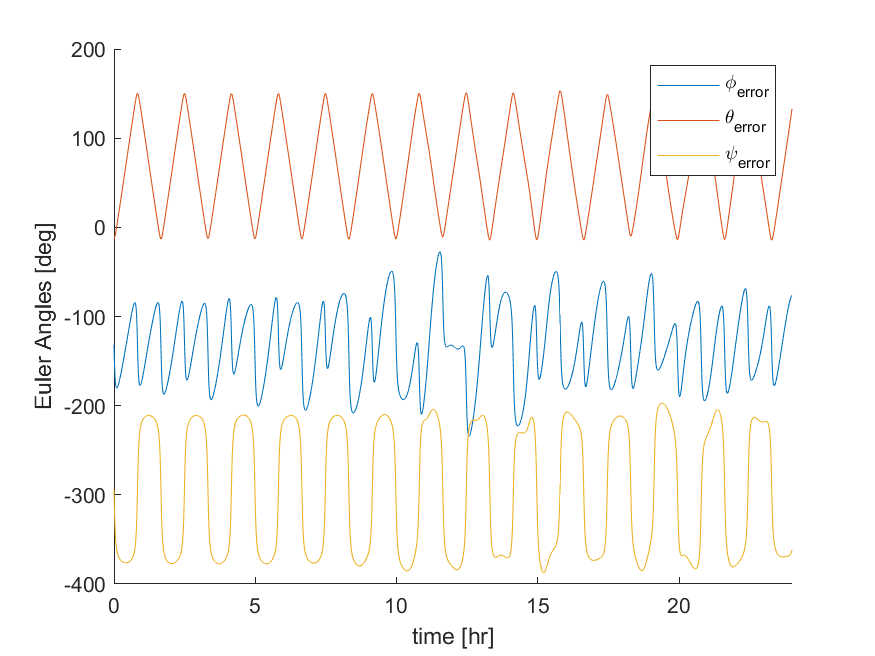
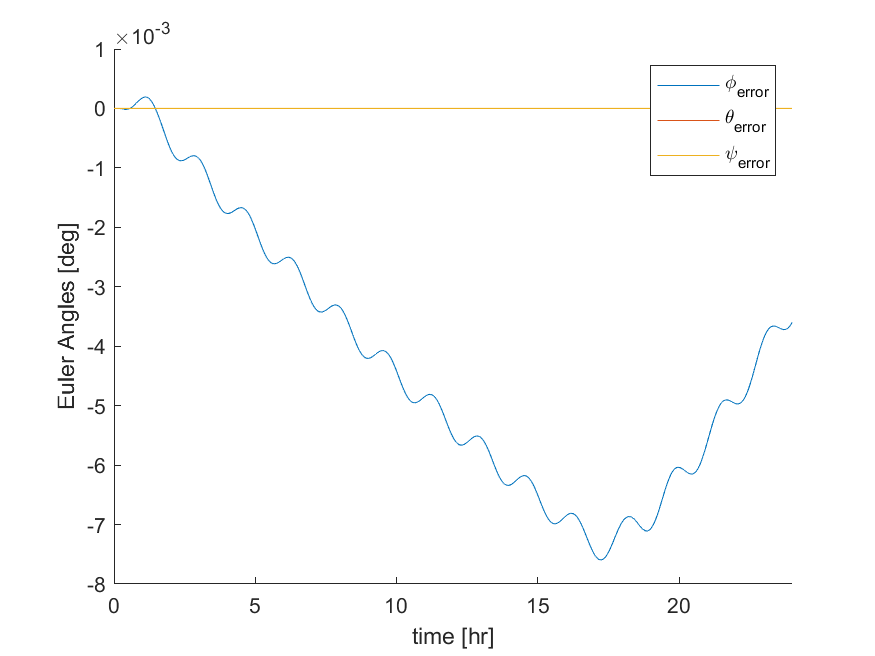
fixing the calculated error (for good) (hopefully)

diff --git a/src/ps6.m b/src/ps6.m
@@ -14,6 +14,7 @@ Iz = IPrincipal(3,3);
 
 %% Problem 2
 tFinal = 86400;
+% tFinal = 60;
 tStep = 1;
 tspan = 0:tStep:tFinal;
 
@@ -35,7 +36,7 @@ h = cross(r0,v0);
 radial = r0 / norm(r0);
 normal = h / norm(h);
 tangential = cross(normal,radial);
-A_RTN = [radial tangential normal]';
+A_RTN = -[radial tangential normal]';
 
 % Earth orbit initial conditions
 aE = 149.60E6; % km
@@ -80,28 +81,22 @@ options = odeset('RelTol',1e-6,'AbsTol',1e-9);
     barycenter,normal,area,cmP,n), ...
     tspan,state0,options);
 
-% Calculate RTN frame
-r = state(:,1:3);
-v = state(:,4:6);
-h = cross(r,v);
-
-radial = r' ./ (vecnorm(r').*ones([3,1]));
-normal = h' ./ (vecnorm(h').*ones([3,1]));
-tangent = cross(radial, normal);
-
-RTN = cat(3, radial, normal, tangent);
-RTN = permute(RTN, [1, 3, 2]); % in ECI
-idx = [1 3 2];
-A_ideal = [-1, 1, 1] .* RTN(:,idx,:);
 
 % Get Euler angles of ideal rotation
 eulerAngs_ideal = nan(size(state(:,10:12)));
+A_ideal = nan([3, 3, length(t)]);
 for n = 1:length(t)
+    r = state(n,1:3);
+    v = state(n,4:6);
+    h = cross(r,v);
+    radial = r' / norm(r);
+    normal = h' / norm(h);
+    tangential = cross(normal, radial);
+    RTN = [radial tangential normal]';
+    A_ideal(:,:,n) = -RTN;
     eulerAngs_ideal(n,:) = A2e(A_ideal(:,:,n));
 end
-% eulerAngs_ideal = wrapTo2Pi(eulerAngs_ideal);
 eulerAngs_ideal = unwrap(eulerAngs_ideal);
-
 
 % Get Euler angles of principal axis
 eulerAngs_actual = state(:,10:12);
@@ -109,7 +104,7 @@ A_ECI2P = nan(3,3,length(t));
 for n = 1:length(t)
     A_ECI2P(:,:,n) = e2A(eulerAngs_actual(n,:));
 end
-% eulerAngs_actual = wrapTo2Pi(eulerAngs_actual);
+eulerAngs_actual = unwrap(eulerAngs_actual);
 
 % Plot
 figure()
@@ -118,6 +113,16 @@ plot(t/3600, rad2deg(eulerAngs_actual - eulerAngs_ideal))
 legend(["\phi_{error}", "\theta_{error}", "\psi_{error}"])
 xlabel("time [hr]"); ylabel("Euler Angles [deg]")
 xlim([0, 24])
-saveAsBool(gcf, 'Images/ps6_problem2.png', savePlots)
+% saveAsBool(gcf, 'Images/ps6_problem2.png', savePlots)
+saveAsBool(gcf, 'Images/ps6_problem3.png', savePlots)
+hold off
 
-%% Problem 6
+% figure(2)
+% plot(t, rad2deg(eulerAngs_ideal))
+% legend(["\phi", "\theta", "\psi"])
+% 
+% figure(3)
+% plot(t, rad2deg(eulerAngs_actual))
+% legend(["\phi", "\theta", "\psi"])
+
+% %% Problem 6

diff --git a/src/orbitTorque.m b/src/orbitTorque.m
@@ -43,6 +43,7 @@ function [stateDot] = orbitTorque(t,state,Ix,Iy,Iz, ...
     Mx = Mgg(1) + Md(1) + Msrp(1) + Mm(1);
     My = Mgg(2) + Md(2) + Msrp(2) + Mm(2);
     Mz = Mgg(3) + Md(3) + Msrp(3) + Mm(3);
+%     Mx = 0; My = 0; Mz = 0;
 
     % Time derivatives
     stateDot = zeros(12,1);
